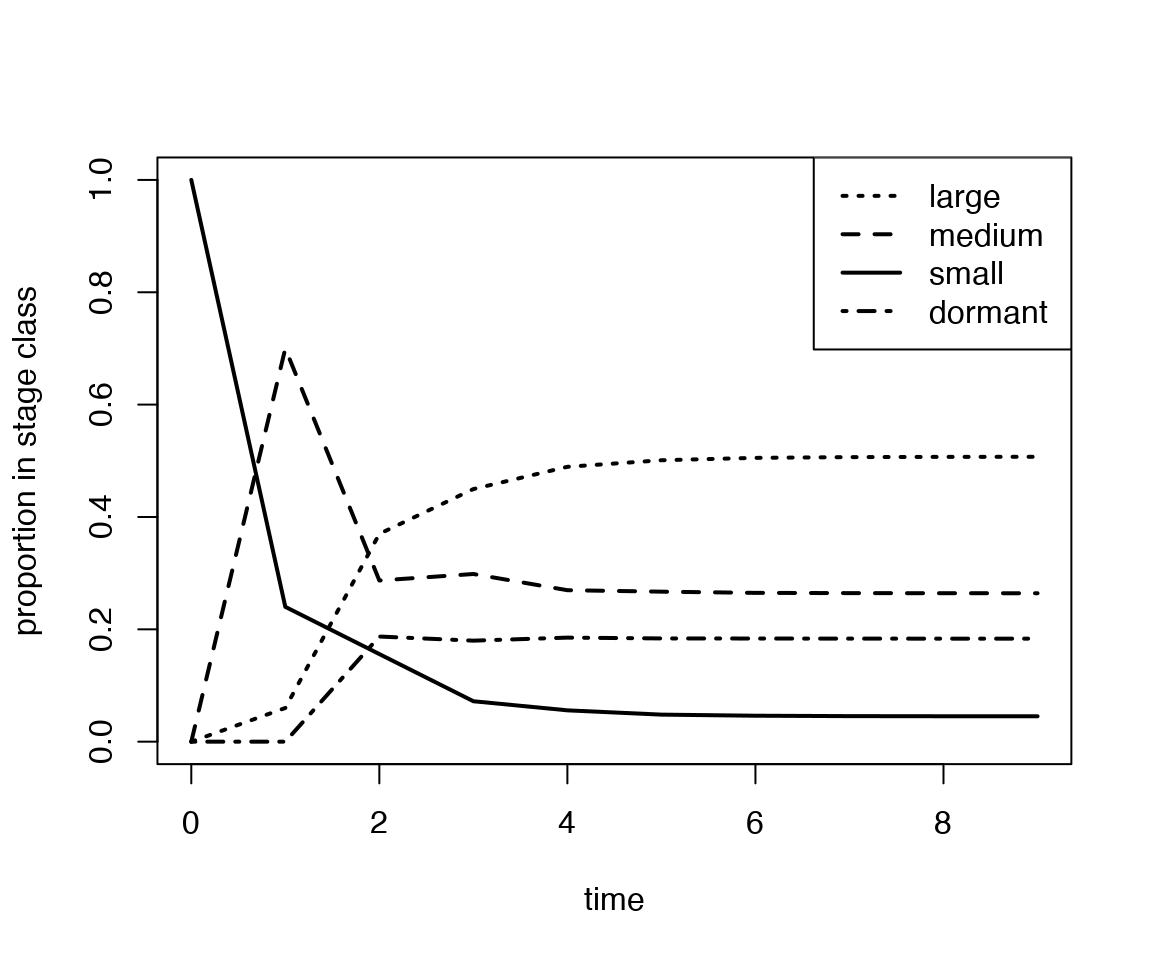
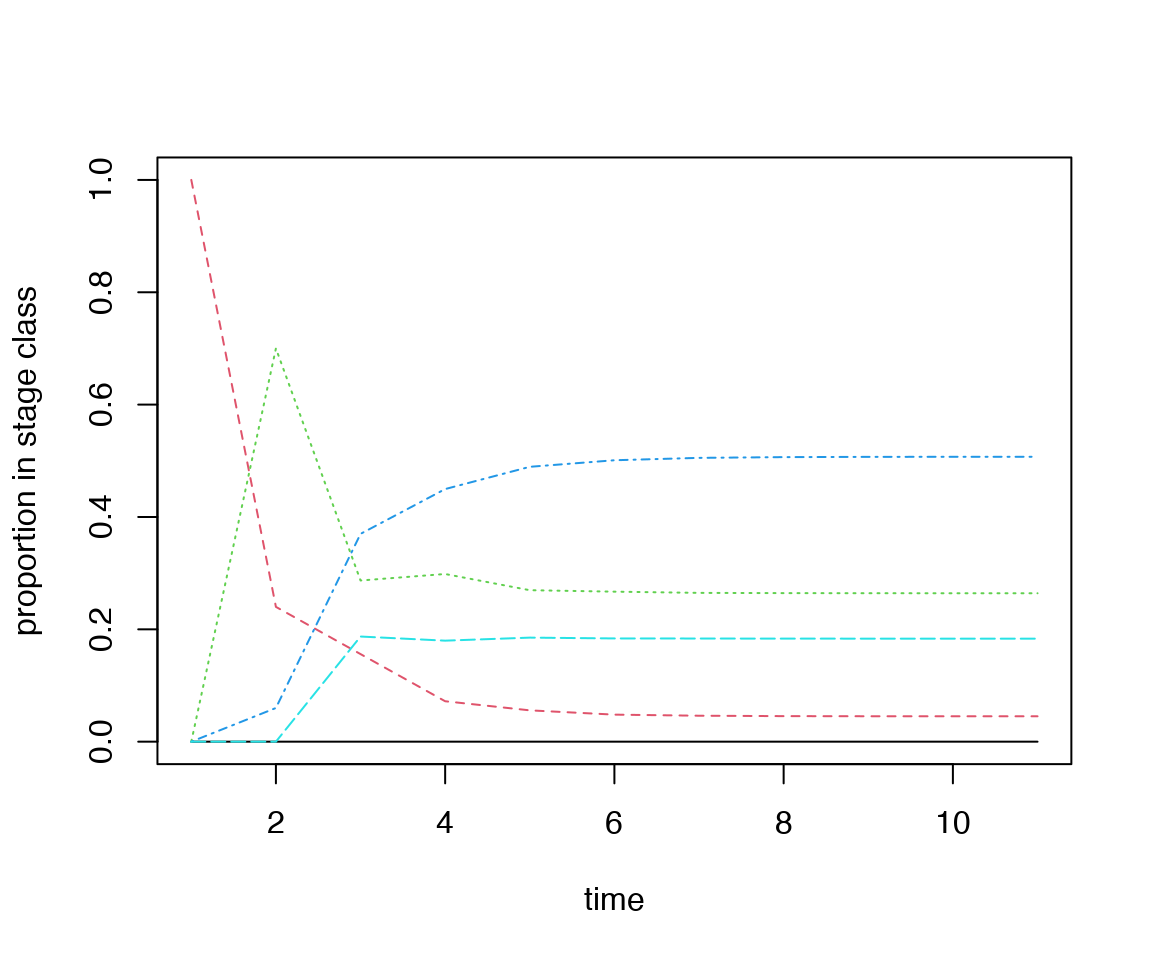
Re-build site, codemeta.json and README

diff --git a/docs/articles/a01_GettingStarted.html b/docs/articles/a01_GettingStarted.html
@@ -118,8 +118,8 @@
 <h2 class="hasAnchor">
 <a href="#r-1--basic-anatomy-of-life-cycles-and-mpms" class="anchor"></a>R.1. Basic anatomy of life cycles and MPMs</h2>
 <p>Matrix population models are a mathematical tool that integrate population dynamics and population structure to model the dynamics of populations with different ‘types’ of individuals, whether due to age, life stage, sex, genotype or any other attribute that causes differences in demographic rates. Consider a plant species with three different types of individuals: <strong>seedlings</strong> that have newly recruited into the population from seeds, non-reproductive <strong>rosettes</strong>, and <strong>flowering</strong> adults that make seeds and also reproduce asexually by vegetative budding. We can represent the biology of this life cycle graphically (Fig. 1) where each life stage is a node and the life stages are connected with arrows showing the paths (and probabilities) that individuals move between stages.</p>
-<div id="htmlwidget-0a3938b9d4de175b01d6" style="width:576px;height:192px;" class="grViz html-widget"></div>
-<script type="application/json" data-for="htmlwidget-0a3938b9d4de175b01d6">{"x":{"diagram":"\ndigraph {\n  {\n    graph[overlap=false];\n    rank=same;\n    node [shape= egg , fontsize= 12 ]; \"seedling\"; \"rosette\"; \"flowering\"  \n  } ordering=out\n  x [style=invis]\n  x -> { \"seedling\"; \"rosette\"; \"flowering\" } [style=invis] \"seedling\" -> \"rosette\"[minlen=3,fontsize=10,color=PaleGreen4,xlabel=\" 0.5\"]\n\"rosette\" -> \"rosette\"[minlen=0,fontsize=10,color=PaleGreen4,xlabel=\" 0.3\"]\n\"rosette\" -> \"flowering\"[minlen=3,fontsize=10,color=PaleGreen4,xlabel=\" 0.4\"]\n\"flowering\" -> \"seedling\"[minlen=-6,fontsize=10,color=Goldenrod1,xlabel=\" 3.2\"]\n\"flowering\" -> \"rosette\"[minlen=-3,fontsize=10,color=MediumOrchid4,xlabel=\" 0.8\"]\n\"flowering\" -> \"flowering\"[minlen=0,fontsize=10,color=PaleGreen4,xlabel=\" 0.9\"]\n labelloc=\"t\";\n  label=\"  \"\n}","config":{"engine":"dot","options":null}},"evals":[],"jsHooks":[]}</script><p><strong>Figure 1.</strong> Life cycle diagram for a hypothetical plant with three life stages (nodes). Arrows are coloured by conventional groupings of demographic processes: growth and survival (green), sexual reproduction via seeds (gold) and asexual reproduction via budding (purple). The numbers along each arrow indicate the transition probability–how many individuals will there be in the stage at the arrow’s end at the next time step for each individual at the arrow’s start?</p>
+<div id="htmlwidget-dc3b8996b6f9f3f31256" style="width:576px;height:192px;" class="grViz html-widget"></div>
+<script type="application/json" data-for="htmlwidget-dc3b8996b6f9f3f31256">{"x":{"diagram":"\ndigraph {\n  {\n    graph[overlap=false];\n    rank=same;\n    node [shape= egg , fontsize= 12 ]; \"seedling\"; \"rosette\"; \"flowering\"  \n  } ordering=out\n  x [style=invis]\n  x -> { \"seedling\"; \"rosette\"; \"flowering\" } [style=invis] \"seedling\" -> \"rosette\"[minlen=3,fontsize=10,color=PaleGreen4,xlabel=\" 0.5\"]\n\"rosette\" -> \"rosette\"[minlen=0,fontsize=10,color=PaleGreen4,xlabel=\" 0.3\"]\n\"rosette\" -> \"flowering\"[minlen=3,fontsize=10,color=PaleGreen4,xlabel=\" 0.4\"]\n\"flowering\" -> \"seedling\"[minlen=-6,fontsize=10,color=Goldenrod1,xlabel=\" 3.2\"]\n\"flowering\" -> \"rosette\"[minlen=-3,fontsize=10,color=MediumOrchid4,xlabel=\" 0.8\"]\n\"flowering\" -> \"flowering\"[minlen=0,fontsize=10,color=PaleGreen4,xlabel=\" 0.9\"]\n labelloc=\"t\";\n  label=\"  \"\n}","config":{"engine":"dot","options":null}},"evals":[],"jsHooks":[]}</script><p><strong>Figure 1.</strong> Life cycle diagram for a hypothetical plant with three life stages (nodes). Arrows are coloured by conventional groupings of demographic processes: growth and survival (green), sexual reproduction via seeds (gold) and asexual reproduction via budding (purple). The numbers along each arrow indicate the transition probability–how many individuals will there be in the stage at the arrow’s end at the next time step for each individual at the arrow’s start?</p>
 <p>The <strong>transition</strong> or <strong>projection matrix</strong> (Fig. 2; called <strong>A</strong> in matrix notation) for this life cycle is a square matrix where the rows and columns correspond to the life stages (nodes) and the elements correspond to transition probabilities (arrows). By convention, the columns reflect the current life stage (i.e., the arrow’s start) and the rows reflect the arrow’s end.</p>
 <p><img src="a01_GettingStarted_files/figure-html/unnamed-chunk-2-1.png" width="384" style="display: block; margin: auto;"><strong>Figure 2.</strong> Transition (projection) matrix corresponding to the life cycle in Fig. 1.</p>
 <p>For basic MPM projection and equilibrium analyses, this single matrix is all that is needed. However, more advanced analyses like many of those in <code>Rage</code> use decompositions of the <strong>A</strong> matrix into its components of growth and survival (<strong>U</strong>) and reproduction (<strong>R</strong>). Reproduction can be further decomposed into offspring produced sexually (<strong>F</strong>) and asexually/clonally (<strong>C</strong>; Fig. 3). The submatrices combine additively to create the transition matrix,</p>
@@ -169,10 +169,9 @@
 <div id="r-3--analysis-of-population-equilibrium-eigenanalysis" class="section level2">
 <h2 class="hasAnchor">
 <a href="#r-3--analysis-of-population-equilibrium-eigenanalysis" class="anchor"></a>R.3. Analysis of population equilibrium (eigenanalysis)</h2>
-<p>Provided that the transition matrix, <strong>A</strong>, meets certain conditions, iterative projections from any starting population vector <span class="math inline">\(\mathbf{n}_{t=0}\)</span> will eventually converge to an equilibrium per-capita population growth rate (<span class="math inline">\(\lambda\)</span>) and stable stage distribution (<span class="math inline">\(\mathbf{w}\)</span>). We can determine <span class="math inline">\(\lambda\)</span> and <span class="math inline">\(\mathbf{w}\)</span> by finding the dominant eigenvalue and its associated (right) eigenvector, respectively. The <code>popbio</code> and <code>popdemo</code> package provide functions to do these calculations:</p>
+<p>Provided that the transition matrix, <strong>A</strong>, meets certain conditions, iterative projections from any starting population vector <span class="math inline">\(\mathbf{n}_{t=0}\)</span> will eventually converge to an equilibrium per-capita population growth rate (<span class="math inline">\(\lambda\)</span>) and stable stage distribution (<span class="math inline">\(\mathbf{w}\)</span>). We can determine <span class="math inline">\(\lambda\)</span> and <span class="math inline">\(\mathbf{w}\)</span> by finding the dominant eigenvalue and its associated (right) eigenvector, respectively. The <code>popdemo</code> package provide functions to do these calculations (the package <code>popbio</code> also provides extensive functionality for matrix model analysis):</p>
 <div class="sourceCode" id="cb1"><pre class="downlit sourceCode r">
-<code class="sourceCode R"><span class="kw"><a href="https://rdrr.io/r/base/library.html">library</a></span><span class="op">(</span><span class="va">popbio</span><span class="op">)</span>
-<span class="kw"><a href="https://rdrr.io/r/base/library.html">library</a></span><span class="op">(</span><span class="va">popdemo</span><span class="op">)</span>
+<code class="sourceCode R"><span class="kw"><a href="https://rdrr.io/r/base/library.html">library</a></span><span class="op">(</span><span class="va">popdemo</span><span class="op">)</span>
 
 <span class="co"># define the transition matrix, A</span>
 <span class="va">A</span> <span class="op">&lt;-</span> <span class="fu"><a href="https://rdrr.io/r/base/cbind.html">rbind</a></span><span class="op">(</span><span class="fu"><a href="https://rdrr.io/r/base/c.html">c</a></span><span class="op">(</span><span class="fl">0.0</span>, <span class="fl">0.0</span>, <span class="fl">3.2</span><span class="op">)</span>,
@@ -180,14 +179,10 @@
            <span class="fu"><a href="https://rdrr.io/r/base/c.html">c</a></span><span class="op">(</span><span class="fl">0.0</span>, <span class="fl">0.4</span>, <span class="fl">0.9</span><span class="op">)</span><span class="op">)</span>
 
 <span class="co"># lambda: equilibrium per-capita population growth rate</span>
-<span class="fu">popbio</span><span class="fu">::</span><span class="fu"><a href="https://rdrr.io/pkg/popbio/man/lambda.html">lambda</a></span><span class="op">(</span>A <span class="op">=</span> <span class="va">A</span><span class="op">)</span>
-<span class="co">#&gt; [1] 1.51273</span>
 <span class="fu">popdemo</span><span class="fu">::</span><span class="fu"><a href="https://rdrr.io/pkg/popdemo/man/eigs.html">eigs</a></span><span class="op">(</span>A <span class="op">=</span> <span class="va">A</span>, what <span class="op">=</span> <span class="st">"lambda"</span><span class="op">)</span>
 <span class="co">#&gt; [1] 1.51273</span>
 
 <span class="co"># w: stable stage distribution (relative frequencies)</span>
-<span class="fu">popbio</span><span class="fu">::</span><span class="fu"><a href="https://rdrr.io/pkg/popbio/man/stable.stage.html">stable.stage</a></span><span class="op">(</span>A <span class="op">=</span> <span class="va">A</span><span class="op">)</span>
-<span class="co">#&gt; [1] 0.4551941 0.3296228 0.2151831</span>
 <span class="fu">popdemo</span><span class="fu">::</span><span class="fu"><a href="https://rdrr.io/pkg/popdemo/man/eigs.html">eigs</a></span><span class="op">(</span>A <span class="op">=</span> <span class="va">A</span>, what <span class="op">=</span> <span class="st">"ss"</span><span class="op">)</span>
 <span class="co">#&gt; [1] 0.4551941 0.3296228 0.2151831</span></code></pre></div>
 <p>From <span class="math inline">\(\lambda\)</span>, we infer that the population would eventually grow at an equilibrium rate of 51% per time step. Likewise, from <span class="math inline">\(\mathbf{w}\)</span> we infer that nearly half of individuals will be seedlings, about a third will be rosettes and a fifth will be flowering at equilibrium.</p>
@@ -333,10 +328,10 @@
 <p>When individuals can remain in the last life stage class, age-specific trajectories of mortality and fertility can appear to plateau as a cohort asymptotically approaches its stable stage distribution (SSD). For these MPMs, we can choose a quasi-stationary distribution (QSD) of stages that is within an arbitrarily close threshold of the SSD. Subsetting age-specific demographic trajectories to time points before a cohort reaches the QSD will minimise these plateau artefacts. In the example MPM, <code>mpm1</code>, a cohort of germinated individuals quickly converges towards the SSD:</p>
 <div class="sourceCode" id="cb8"><pre class="downlit sourceCode r">
 <code class="sourceCode R"><span class="co"># project a germinated cohort through the U matrix</span>
-<span class="va">cohort</span> <span class="op">&lt;-</span> <span class="fu">popbio</span><span class="fu">::</span><span class="fu"><a href="https://rdrr.io/pkg/popbio/man/pop.projection.html">pop.projection</a></span><span class="op">(</span>A <span class="op">=</span> <span class="va">mpm1</span><span class="op">$</span><span class="va">matU</span>, n <span class="op">=</span> <span class="fu"><a href="https://rdrr.io/r/base/c.html">c</a></span><span class="op">(</span><span class="fl">0</span>, <span class="fl">1</span>, <span class="fl">0</span>, <span class="fl">0</span>, <span class="fl">0</span><span class="op">)</span>, iterations <span class="op">=</span> <span class="fl">10</span><span class="op">)</span>
-<span class="fu">popbio</span><span class="fu">::</span><span class="fu"><a href="https://rdrr.io/pkg/popbio/man/stage.vector.plot.html">stage.vector.plot</a></span><span class="op">(</span>stage.vectors <span class="op">=</span> <span class="va">cohort</span><span class="op">$</span><span class="va">stage.vectors</span><span class="op">[</span><span class="op">-</span><span class="fl">1</span>,<span class="op">]</span>,
-                          xlab <span class="op">=</span> <span class="st">"time"</span>, ylab <span class="op">=</span> <span class="st">"proportion in stage class"</span>,
-                          col <span class="op">=</span> <span class="st">"black"</span><span class="op">)</span></code></pre></div>
+<span class="va">cohort</span> <span class="op">&lt;-</span> <span class="fu">popdemo</span><span class="fu">::</span><span class="fu"><a href="https://rdrr.io/pkg/popdemo/man/project.html">project</a></span><span class="op">(</span>A <span class="op">=</span> <span class="va">mpm1</span><span class="op">$</span><span class="va">matU</span>, vector <span class="op">=</span> <span class="fu"><a href="https://rdrr.io/r/base/c.html">c</a></span><span class="op">(</span><span class="fl">0</span>,<span class="fl">1</span>,<span class="fl">0</span>,<span class="fl">0</span>,<span class="fl">0</span><span class="op">)</span>, time <span class="op">=</span> <span class="fl">10</span><span class="op">)</span>
+<span class="va">popStructure</span> <span class="op">&lt;-</span> <span class="fu"><a href="https://rdrr.io/pkg/popdemo/man/Projection-class.html">vec</a></span><span class="op">(</span><span class="va">cohort</span><span class="op">)</span><span class="op">/</span><span class="fu"><a href="https://rdrr.io/r/base/colSums.html">rowSums</a></span><span class="op">(</span><span class="fu"><a href="https://rdrr.io/pkg/popdemo/man/Projection-class.html">vec</a></span><span class="op">(</span><span class="va">cohort</span><span class="op">)</span><span class="op">)</span>
+
+<span class="fu"><a href="https://rdrr.io/r/graphics/matplot.html">matplot</a></span><span class="op">(</span><span class="va">popStructure</span>, type <span class="op">=</span> <span class="st">"l"</span>, xlab <span class="op">=</span> <span class="st">"time"</span>, ylab <span class="op">=</span> <span class="st">"proportion in stage class"</span><span class="op">)</span></code></pre></div>
 <p><img src="a01_GettingStarted_files/figure-html/unnamed-chunk-12-1.png" width="576" style="display: block; margin: auto;"></p>
 <p>Using <code>qsd_converge</code>, we can find the time at which the cohort reaches the QSD and subset the life table or any component age-specific trajectory accordingly.</p>
 <div class="sourceCode" id="cb9"><pre class="downlit sourceCode r">
@@ -497,9 +492,9 @@
 <p>The transition rates in the collapsed matrix are a weighted average of the transition rates from the relevant stages of the original matrix, weighted by the stable distribution at equilibrium. This process guarantees that the collapsed MPM will retain the same population growth rate as the original. However, other demographic and life history characteristics will not necessarily be preserved.</p>
 <div class="sourceCode" id="cb15"><pre class="downlit sourceCode r">
 <code class="sourceCode R"><span class="co"># compare population growth rate of original and collapsed MPM (preserved)</span>
-<span class="fu">popbio</span><span class="fu">::</span><span class="fu"><a href="https://rdrr.io/pkg/popbio/man/lambda.html">lambda</a></span><span class="op">(</span>A <span class="op">=</span> <span class="va">mpm1</span><span class="op">$</span><span class="va">matA</span><span class="op">)</span>
+<span class="fu">popdemo</span><span class="fu">::</span><span class="fu"><a href="https://rdrr.io/pkg/popdemo/man/eigs.html">eigs</a></span><span class="op">(</span>A <span class="op">=</span> <span class="va">mpm1</span><span class="op">$</span><span class="va">matA</span>,what <span class="op">=</span> <span class="st">"lambda"</span><span class="op">)</span>
 <span class="co">#&gt; [1] 1.121037</span>
-<span class="fu">popbio</span><span class="fu">::</span><span class="fu"><a href="https://rdrr.io/pkg/popbio/man/lambda.html">lambda</a></span><span class="op">(</span>A <span class="op">=</span> <span class="va">col1_cust</span><span class="op">$</span><span class="va">matA</span><span class="op">)</span>
+<span class="fu">popdemo</span><span class="fu">::</span><span class="fu"><a href="https://rdrr.io/pkg/popdemo/man/eigs.html">eigs</a></span><span class="op">(</span>A <span class="op">=</span> <span class="va">col1_cust</span><span class="op">$</span><span class="va">matA</span>, what <span class="op">=</span> <span class="st">"lambda"</span><span class="op">)</span>
 <span class="co">#&gt; [1] 1.121037</span>
 
 <span class="co"># compare net reproductive rate of original and collapsed MPM (not preserved)</span>

diff --git a/docs/index.html b/docs/index.html
@@ -159,8 +159,8 @@
 <a href="#loading-an-example-mpm" class="anchor"></a>Loading an example MPM</h3>
 <p>The functions in Rage work on MPMs (or components of MPMs), so we’ll start by loading one of the example MPMs included in the Rage package (<code>mpm1</code>).</p>
 <div class="sourceCode" id="cb4"><pre class="downlit sourceCode r">
-<code class="sourceCode R"><span class="kw"><a href="https://rdrr.io/r/base/library.html">library</a></span><span class="op">(</span><span class="va"><a href="https://github.com/jonesor/Rage">Rage</a></span><span class="op">)</span>  <span class="co"># load Rage</span>
-<span class="fu"><a href="https://rdrr.io/r/utils/data.html">data</a></span><span class="op">(</span><span class="va">mpm1</span><span class="op">)</span>     <span class="co"># load data object 'mpm1'</span>
+<code class="sourceCode R"><span class="kw"><a href="https://rdrr.io/r/base/library.html">library</a></span><span class="op">(</span><span class="va"><a href="https://github.com/jonesor/Rage">Rage</a></span><span class="op">)</span> <span class="co"># load Rage</span>
+<span class="fu"><a href="https://rdrr.io/r/utils/data.html">data</a></span><span class="op">(</span><span class="va">mpm1</span><span class="op">)</span> <span class="co"># load data object 'mpm1'</span>
 
 <span class="va">mpm1</span>
 <span class="co">#&gt; $matU</span>
@@ -185,7 +185,7 @@
 <a href="#deriving-life-history-traits-from-an-mpm" class="anchor"></a>Deriving life history traits from an MPM</h3>
 <p>One of the most common arguments among functions in Rage is <code>start</code>, which is used to specify the stage class that represents the ‘beginning of life’ for the purposes of calculation. Because the first stage class in <code>mpm1</code> is a ‘seed’ stage, which we might consider functionally-distinct from the ‘above-ground’ stages, we’ll specify <code>start = 2</code> to set our starting stage class of interest to the ‘small’ stage.</p>
 <div class="sourceCode" id="cb5"><pre class="downlit sourceCode r">
-<code class="sourceCode R"><span class="fu"><a href="reference/life_expect_mean.html">life_expect</a></span><span class="op">(</span><span class="va">mpm1</span><span class="op">$</span><span class="va">matU</span>, start <span class="op">=</span> <span class="fl">2</span><span class="op">)</span>               <span class="co"># life expectancy</span>
+<code class="sourceCode R"><span class="fu"><a href="reference/life_expect_mean.html">life_expect</a></span><span class="op">(</span><span class="va">mpm1</span><span class="op">$</span><span class="va">matU</span>, start <span class="op">=</span> <span class="fl">2</span><span class="op">)</span> <span class="co"># life expectancy</span>
 <span class="co">#&gt; Warning: 'life_expect' is deprecated.</span>
 <span class="co">#&gt; Use 'life_expect_mean' instead.</span>
 <span class="co">#&gt; See help("Deprecated")</span>
@@ -193,16 +193,16 @@
 <span class="co">#&gt; 1 2.509116 14.5045</span>
 <span class="fu"><a href="reference/longevity.html">longevity</a></span><span class="op">(</span><span class="va">mpm1</span><span class="op">$</span><span class="va">matU</span>, start <span class="op">=</span> <span class="fl">2</span>, lx_crit <span class="op">=</span> <span class="fl">0.05</span><span class="op">)</span> <span class="co"># longevity (age at lx = 0.05)</span>
 <span class="co">#&gt; [1] 7</span>
-<span class="fu"><a href="reference/repro_maturity.html">mature_age</a></span><span class="op">(</span><span class="va">mpm1</span><span class="op">$</span><span class="va">matU</span>, <span class="va">mpm1</span><span class="op">$</span><span class="va">matF</span>, start <span class="op">=</span> <span class="fl">2</span><span class="op">)</span>     <span class="co"># mean age at first reproduction</span>
+<span class="fu"><a href="reference/repro_maturity.html">mature_age</a></span><span class="op">(</span><span class="va">mpm1</span><span class="op">$</span><span class="va">matU</span>, <span class="va">mpm1</span><span class="op">$</span><span class="va">matF</span>, start <span class="op">=</span> <span class="fl">2</span><span class="op">)</span> <span class="co"># mean age at first reproduction</span>
 <span class="co">#&gt;    small </span>
 <span class="co">#&gt; 2.136364</span>
-<span class="fu"><a href="reference/repro_maturity.html">mature_prob</a></span><span class="op">(</span><span class="va">mpm1</span><span class="op">$</span><span class="va">matU</span>, <span class="va">mpm1</span><span class="op">$</span><span class="va">matF</span>, start <span class="op">=</span> <span class="fl">2</span><span class="op">)</span>    <span class="co"># prob survival to first repro</span>
+<span class="fu"><a href="reference/repro_maturity.html">mature_prob</a></span><span class="op">(</span><span class="va">mpm1</span><span class="op">$</span><span class="va">matU</span>, <span class="va">mpm1</span><span class="op">$</span><span class="va">matF</span>, start <span class="op">=</span> <span class="fl">2</span><span class="op">)</span> <span class="co"># prob survival to first repro</span>
 <span class="co">#&gt; [1] 0.4318182</span></code></pre></div>
 <p>Some life history traits are independent of the starting stage class, in which case we don’t need to specify <code>start</code>.</p>
 <div class="sourceCode" id="cb6"><pre class="downlit sourceCode r">
-<code class="sourceCode R"><span class="fu"><a href="reference/net_repro_rate.html">net_repro_rate</a></span><span class="op">(</span><span class="va">mpm1</span><span class="op">$</span><span class="va">matU</span>, <span class="va">mpm1</span><span class="op">$</span><span class="va">matF</span><span class="op">)</span>    <span class="co"># net reproductive rate</span>
+<code class="sourceCode R"><span class="fu"><a href="reference/net_repro_rate.html">net_repro_rate</a></span><span class="op">(</span><span class="va">mpm1</span><span class="op">$</span><span class="va">matU</span>, <span class="va">mpm1</span><span class="op">$</span><span class="va">matF</span><span class="op">)</span> <span class="co"># net reproductive rate</span>
 <span class="co">#&gt; [1] 1.852091</span>
-<span class="fu"><a href="reference/gen_time.html">gen_time</a></span><span class="op">(</span><span class="va">mpm1</span><span class="op">$</span><span class="va">matU</span>, <span class="va">mpm1</span><span class="op">$</span><span class="va">matF</span><span class="op">)</span>          <span class="co"># generation time</span>
+<span class="fu"><a href="reference/gen_time.html">gen_time</a></span><span class="op">(</span><span class="va">mpm1</span><span class="op">$</span><span class="va">matU</span>, <span class="va">mpm1</span><span class="op">$</span><span class="va">matF</span><span class="op">)</span> <span class="co"># generation time</span>
 <span class="co">#&gt; [1] 5.394253</span></code></pre></div>
 <p>Other life history traits are calculated from a life table rather than an MPM, in which case we can first use the <code>mpm_to_</code> group of functions to derive the necessary life table components.</p>
 <div class="sourceCode" id="cb7"><pre class="downlit sourceCode r">
@@ -211,13 +211,13 @@
 <span class="va">mx</span> <span class="op">&lt;-</span> <span class="fu"><a href="reference/age_from_stage.html">mpm_to_mx</a></span><span class="op">(</span><span class="va">mpm1</span><span class="op">$</span><span class="va">matU</span>, <span class="va">mpm1</span><span class="op">$</span><span class="va">matF</span>, start <span class="op">=</span> <span class="fl">2</span><span class="op">)</span>
 
 <span class="co"># then calculate life history traits</span>
-<span class="fu"><a href="reference/entropy_k.html">entropy_k</a></span><span class="op">(</span><span class="va">lx</span><span class="op">)</span>       <span class="co"># Keyfitz' entropy</span>
+<span class="fu"><a href="reference/entropy_k.html">entropy_k</a></span><span class="op">(</span><span class="va">lx</span><span class="op">)</span> <span class="co"># Keyfitz' entropy</span>
 <span class="co">#&gt; [1] 0.9077186</span>
-<span class="fu"><a href="reference/entropy_d.html">entropy_d</a></span><span class="op">(</span><span class="va">lx</span>, <span class="va">mx</span><span class="op">)</span>   <span class="co"># Demetrius' entropy</span>
+<span class="fu"><a href="reference/entropy_d.html">entropy_d</a></span><span class="op">(</span><span class="va">lx</span>, <span class="va">mx</span><span class="op">)</span> <span class="co"># Demetrius' entropy</span>
 <span class="co">#&gt; [1] -1.426434</span>
-<span class="fu"><a href="reference/shape_surv.html">shape_surv</a></span><span class="op">(</span><span class="va">lx</span><span class="op">)</span>      <span class="co"># shape of survival/mortality trajectory</span>
+<span class="fu"><a href="reference/shape_surv.html">shape_surv</a></span><span class="op">(</span><span class="va">lx</span><span class="op">)</span> <span class="co"># shape of survival/mortality trajectory</span>
 <span class="co">#&gt; [1] -0.04681254</span>
-<span class="fu"><a href="reference/shape_rep.html">shape_rep</a></span><span class="op">(</span><span class="va">lx</span><span class="op">)</span>       <span class="co"># shape of fecundity trajectory</span>
+<span class="fu"><a href="reference/shape_rep.html">shape_rep</a></span><span class="op">(</span><span class="va">lx</span><span class="op">)</span> <span class="co"># shape of fecundity trajectory</span>
 <span class="co">#&gt; [1] 0.3097147</span></code></pre></div>
 </div>
 <div id="life-tables-and-the-quasi-stationary-distribution" class="section level3">
@@ -241,9 +241,9 @@
 <p>One approach to accounting for this artefactual plateau in subsequent life history calculations is to limit our life table to the period prior to the QSD.</p>
 <div class="sourceCode" id="cb9"><pre class="downlit sourceCode r">
 <code class="sourceCode R"><span class="co"># calculate the shape of the survival/mortality trajectory</span>
-<span class="fu"><a href="reference/shape_surv.html">shape_surv</a></span><span class="op">(</span><span class="va">lt</span><span class="op">$</span><span class="va">lx</span><span class="op">)</span>       <span class="co"># based on full lx trajectory</span>
+<span class="fu"><a href="reference/shape_surv.html">shape_surv</a></span><span class="op">(</span><span class="va">lt</span><span class="op">$</span><span class="va">lx</span><span class="op">)</span> <span class="co"># based on full lx trajectory</span>
 <span class="co">#&gt; [1] -0.04681254</span>
-<span class="fu"><a href="reference/shape_surv.html">shape_surv</a></span><span class="op">(</span><span class="va">lt</span><span class="op">$</span><span class="va">lx</span><span class="op">[</span><span class="fl">1</span><span class="op">:</span><span class="va">q</span><span class="op">]</span><span class="op">)</span>  <span class="co"># based on lx trajectory prior to the QSD</span>
+<span class="fu"><a href="reference/shape_surv.html">shape_surv</a></span><span class="op">(</span><span class="va">lt</span><span class="op">$</span><span class="va">lx</span><span class="op">[</span><span class="fl">1</span><span class="op">:</span><span class="va">q</span><span class="op">]</span><span class="op">)</span> <span class="co"># based on lx trajectory prior to the QSD</span>
 <span class="co">#&gt; [1] -0.06573764</span></code></pre></div>
 </div>
 <div id="standardized-vital-rates" class="section level3">
@@ -285,9 +285,13 @@
 <code class="sourceCode R"><span class="co"># derive full MPM (matA)</span>
 <span class="va">mpm1</span><span class="op">$</span><span class="va">matA</span> <span class="op">&lt;-</span> <span class="va">mpm1</span><span class="op">$</span><span class="va">matU</span> <span class="op">+</span> <span class="va">mpm1</span><span class="op">$</span><span class="va">matF</span>
 
-<span class="co"># calculate stable stage distribution at equilibrium using popbio::stable.stage</span>
-<span class="kw"><a href="https://rdrr.io/r/base/library.html">library</a></span><span class="op">(</span><span class="va">popbio</span><span class="op">)</span>
-<span class="va">w</span> <span class="op">&lt;-</span> <span class="fu">popbio</span><span class="fu">::</span><span class="fu"><a href="https://rdrr.io/pkg/popbio/man/stable.stage.html">stable.stage</a></span><span class="op">(</span><span class="va">mpm1</span><span class="op">$</span><span class="va">matA</span><span class="op">)</span>
+<span class="co"># calculate stable stage distribution at equilibrium using popdemo::eigs</span>
+<span class="kw"><a href="https://rdrr.io/r/base/library.html">library</a></span><span class="op">(</span><span class="va">popdemo</span><span class="op">)</span>
+<span class="co">#&gt; Welcome to popdemo! This is version 1.3-0</span>
+<span class="co">#&gt; Use ?popdemo for an intro, or browseVignettes('popdemo') for vignettes</span>
+<span class="co">#&gt; Citation for popdemo is here: doi.org/10.1111/j.2041-210X.2012.00222.x</span>
+<span class="co">#&gt; Development and legacy versions are here: github.com/iainmstott/popdemo</span>
+<span class="va">w</span> <span class="op">&lt;-</span> <span class="fu">popdemo</span><span class="fu">::</span><span class="fu"><a href="https://rdrr.io/pkg/popdemo/man/eigs.html">eigs</a></span><span class="op">(</span><span class="va">mpm1</span><span class="op">$</span><span class="va">matA</span>, what <span class="op">=</span> <span class="st">"ss"</span><span class="op">)</span>
 
 <span class="co"># calculate MPM-specific vital rates</span>
 <span class="fu"><a href="reference/vr.html">vr_survival</a></span><span class="op">(</span><span class="va">mpm1</span><span class="op">$</span><span class="va">matU</span>, exclude_col <span class="op">=</span> <span class="fu"><a href="https://rdrr.io/r/base/c.html">c</a></span><span class="op">(</span><span class="fl">1</span>, <span class="fl">5</span><span class="op">)</span>, weights_col <span class="op">=</span> <span class="va">w</span><span class="op">)</span>
@@ -347,9 +351,9 @@
 <p>The transition rates in the collapsed matrix are a weighted average of the transition rates from the relevant stages of the original matrix, weighted by the stable distribution at equilibrium. This process guarantees that the collapsed MPM will retain the same population growth rate as the original. However, other demographic and life history characteristics will not necessarily be preserved.</p>
 <div class="sourceCode" id="cb14"><pre class="downlit sourceCode r">
 <code class="sourceCode R"><span class="co"># compare population growth rate of original and collapsed MPM (preserved)</span>
-<span class="fu">popbio</span><span class="fu">::</span><span class="fu"><a href="https://rdrr.io/pkg/popbio/man/lambda.html">lambda</a></span><span class="op">(</span><span class="va">mpm1</span><span class="op">$</span><span class="va">matA</span><span class="op">)</span>
+<span class="fu">popdemo</span><span class="fu">::</span><span class="fu"><a href="https://rdrr.io/pkg/popdemo/man/eigs.html">eigs</a></span><span class="op">(</span><span class="va">mpm1</span><span class="op">$</span><span class="va">matA</span>, what <span class="op">=</span> <span class="st">"lambda"</span><span class="op">)</span>
 <span class="co">#&gt; [1] 1.121037</span>
-<span class="fu">popbio</span><span class="fu">::</span><span class="fu"><a href="https://rdrr.io/pkg/popbio/man/lambda.html">lambda</a></span><span class="op">(</span><span class="va">col1</span><span class="op">$</span><span class="va">matA</span><span class="op">)</span>
+<span class="fu">popdemo</span><span class="fu">::</span><span class="fu"><a href="https://rdrr.io/pkg/popdemo/man/eigs.html">eigs</a></span><span class="op">(</span><span class="va">col1</span><span class="op">$</span><span class="va">matA</span>, what <span class="op">=</span> <span class="st">"lambda"</span><span class="op">)</span>
 <span class="co">#&gt; [1] 1.121037</span>
 
 <span class="co"># compare net reproductive rate of original and collapsed MPM (not preserved)</span>

diff --git a/docs/articles/a02_VitalRates.html b/docs/articles/a02_VitalRates.html
@@ -253,10 +253,14 @@
 <a href="#weighted-average-across-stage-classes" class="anchor"></a>Weighted average across stage classes</h4>
 <p>Rather than taking a simple average of the given vital rate across stage classes, we may wish to take a <em>weighted</em> average across stage classes. For instance, we may wish to weight stage classes based on the stable distribution at equilibrium. Here’s an example of how to do that using the <code>weights_col</code> argument.</p>
 <div class="sourceCode" id="cb14"><pre class="downlit sourceCode r">
-<code class="sourceCode R"><span class="co"># calculate the stable distribution using popbio::stable.stage</span>
-<span class="kw"><a href="https://rdrr.io/r/base/library.html">library</a></span><span class="op">(</span><span class="va">popbio</span><span class="op">)</span>
+<code class="sourceCode R"><span class="co"># calculate the stable distribution using popdemo::eigs</span>
+<span class="kw"><a href="https://rdrr.io/r/base/library.html">library</a></span><span class="op">(</span><span class="va">popdemo</span><span class="op">)</span>
+<span class="co">#&gt; Welcome to popdemo! This is version 1.3-0</span>
+<span class="co">#&gt; Use ?popdemo for an intro, or browseVignettes('popdemo') for vignettes</span>
+<span class="co">#&gt; Citation for popdemo is here: doi.org/10.1111/j.2041-210X.2012.00222.x</span>
+<span class="co">#&gt; Development and legacy versions are here: github.com/iainmstott/popdemo</span>
 <span class="va">matA</span> <span class="op">&lt;-</span> <span class="va">matU</span> <span class="op">+</span> <span class="va">matF</span>
-<span class="va">w</span> <span class="op">&lt;-</span> <span class="fu">popbio</span><span class="fu">::</span><span class="fu"><a href="https://rdrr.io/pkg/popbio/man/stable.stage.html">stable.stage</a></span><span class="op">(</span><span class="va">matA</span><span class="op">)</span>
+<span class="va">w</span> <span class="op">&lt;-</span> <span class="fu">popdemo</span><span class="fu">::</span><span class="fu"><a href="https://rdrr.io/pkg/popdemo/man/eigs.html">eigs</a></span><span class="op">(</span><span class="va">matA</span>, what <span class="op">=</span> <span class="st">"ss"</span><span class="op">)</span>
 
 <span class="co"># calculate mean vital rate of growth weighted by the stable distribution</span>
 <span class="fu"><a href="../reference/vr.html">vr_growth</a></span><span class="op">(</span><span class="va">matU</span>, exclude_row <span class="op">=</span> <span class="fl">4</span>, weights_col <span class="op">=</span> <span class="va">w</span><span class="op">)</span>

diff --git a/docs/reference/pop_vectors.html b/docs/reference/pop_vectors.html
@@ -167,7 +167,7 @@ subsequent vectors through recursive population projection.</p>
 Either <code>stable.stage</code> to use the stable stage distribution of the mean
 matrix as the starting vector, <code>uniform</code> to use a uniform starting vector
 (all elements equal), or <code>random</code> to use a randomly-generated starting
-vector. Defaults to <code>stable.stage</code>.</p></td>
+vector. Defaults to the stable stage distribution.</p></td>
     </tr>
     </table>
 

diff --git a/docs/news/index.html b/docs/news/index.html
@@ -143,6 +143,7 @@
 <li>Improved documentation of <code>mpm_to_table</code> and related functions.</li>
 <li>Standardised the <code>lx_crit</code>, <code>conv</code> and <code>xmax</code> argument values across age-from-stage functions.</li>
 <li>Minor edits to documentation for stylistic consistency.</li>
+<li>Removed dependency on the package <code>popbio</code>.</li>
 </ul>
 </div>
     <div id="rage-110" class="section level1">
